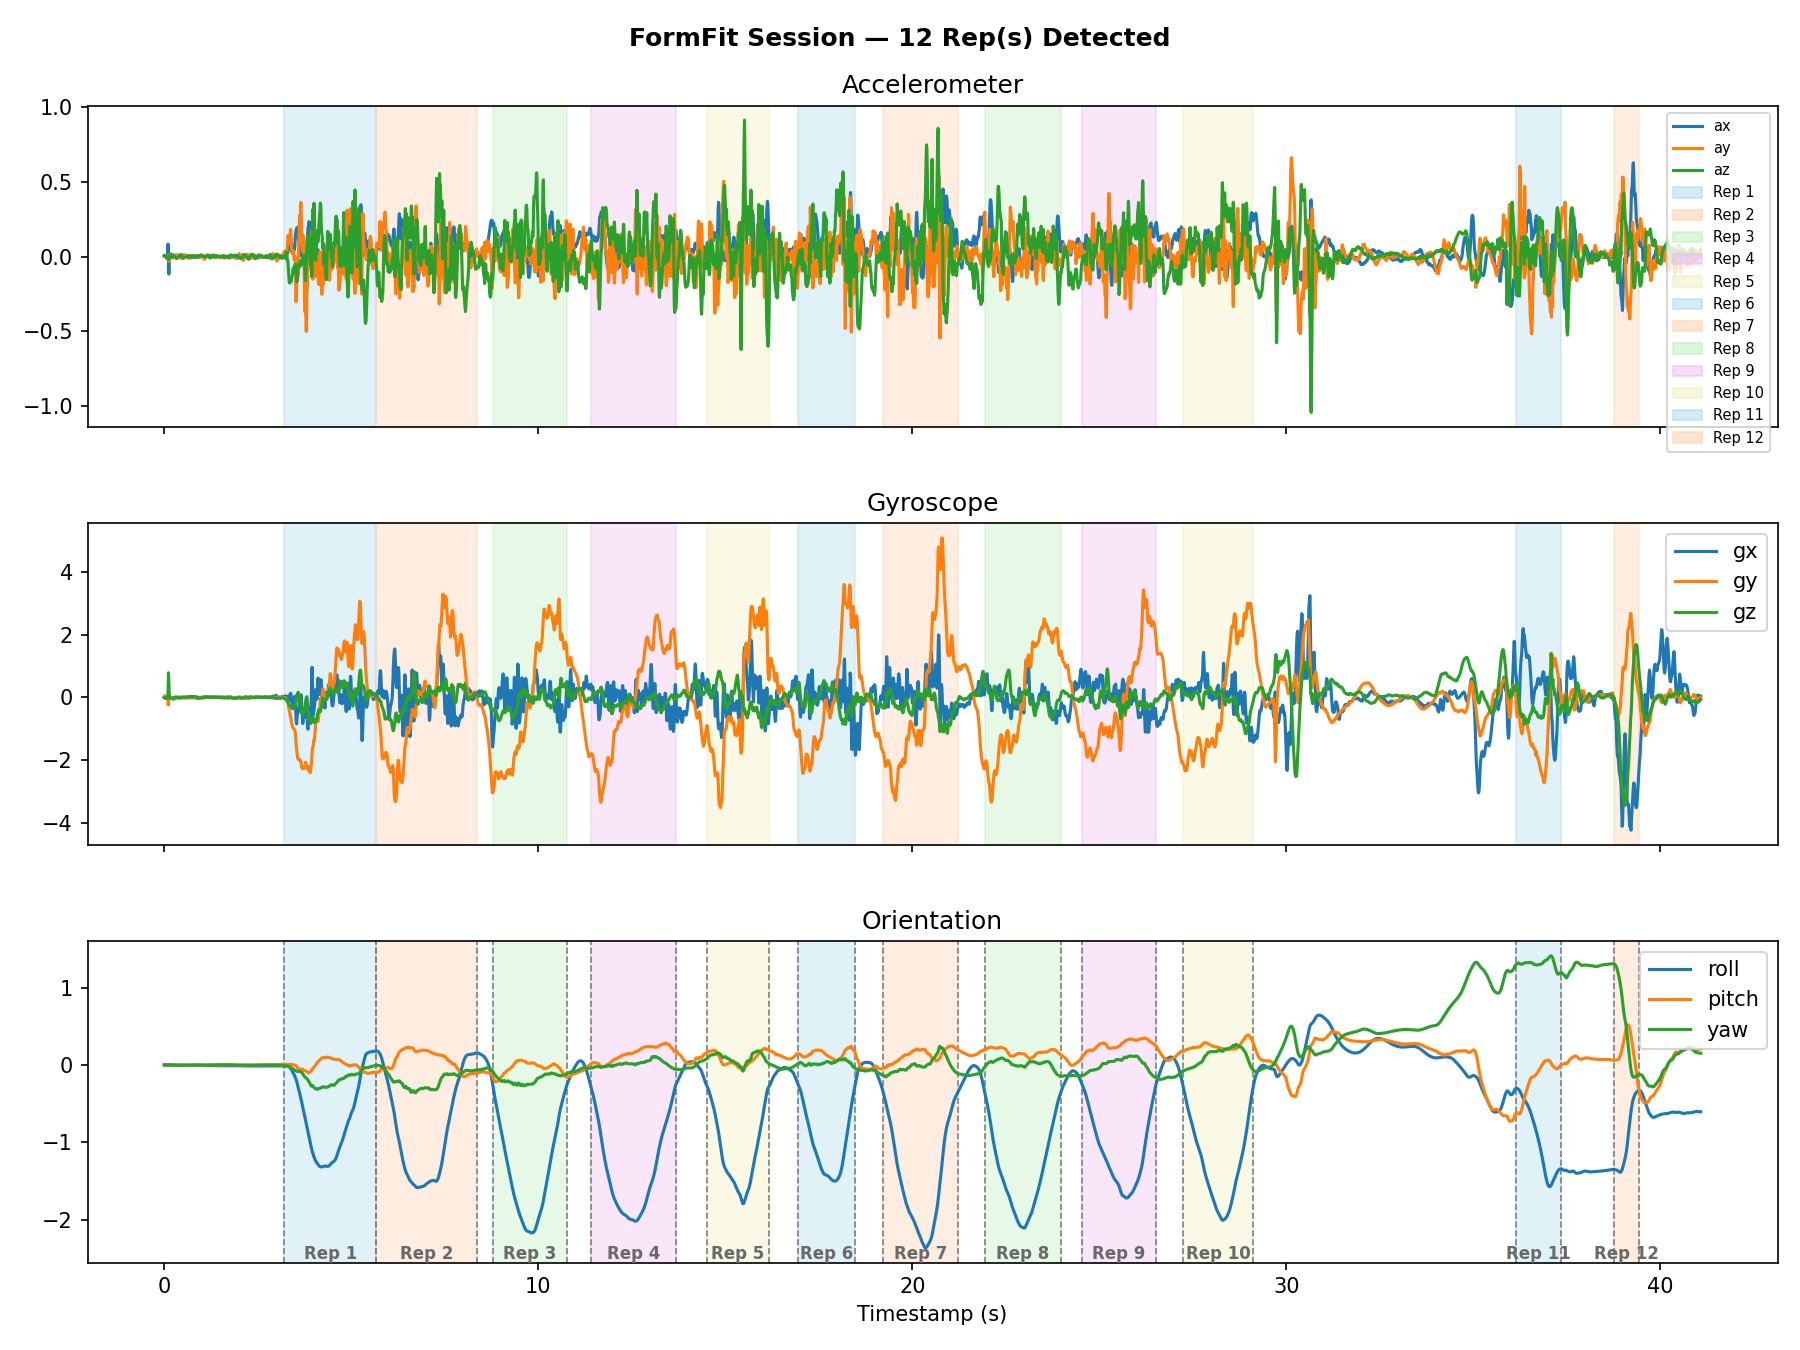
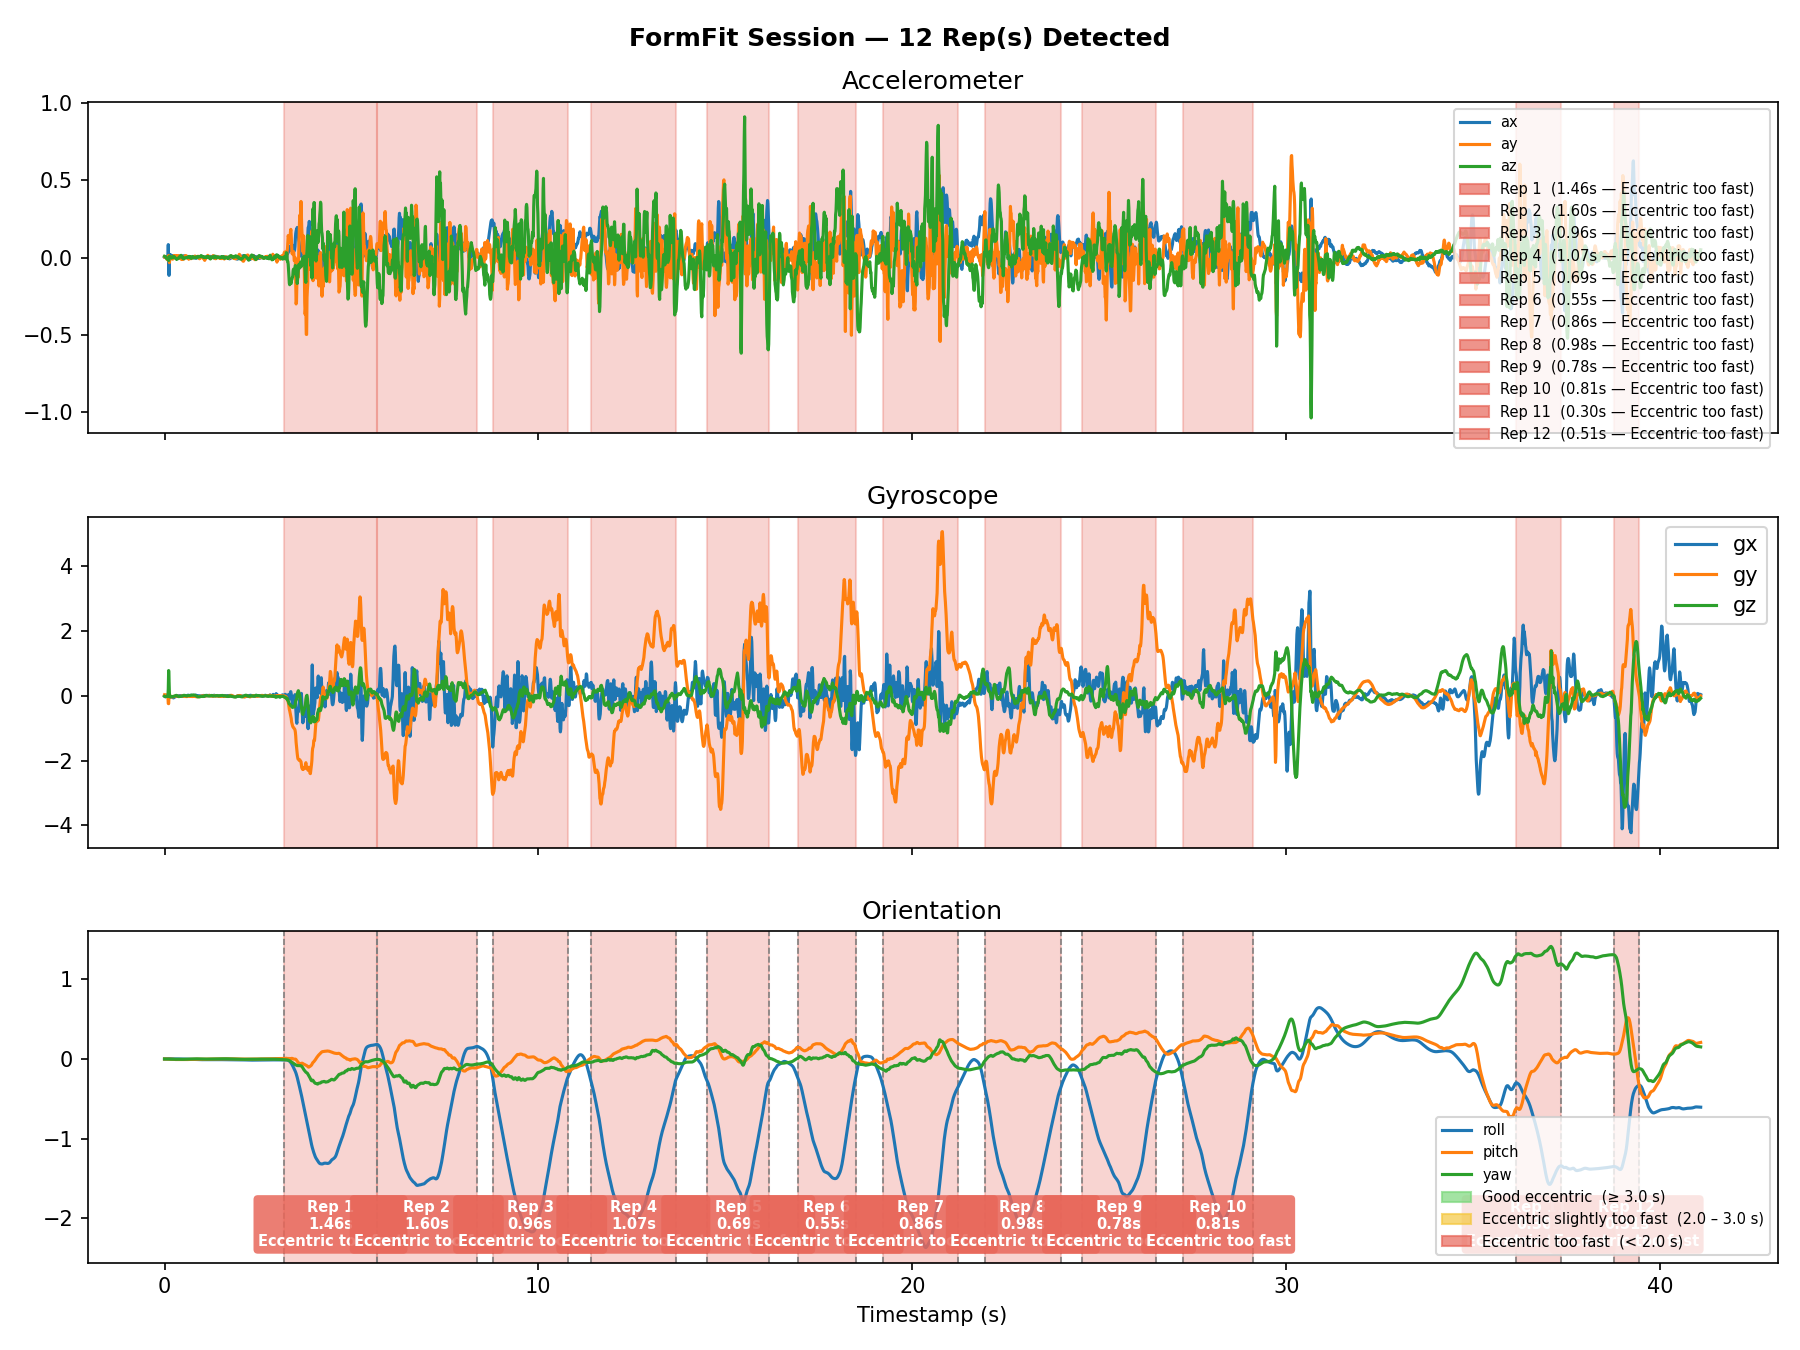
Add eccentric control scoring to rep visualization
For each detected rep, calculate the duration of the eccentric phase
(roll valley → end of rep, i.e. the controlled return to neutral) and
classify it into three tiers:
  - Good eccentric        (≥ 3.0 s)  → green shading
  - Slightly too fast     (2.0–3.0 s) → yellow shading
  - Eccentric too fast    (< 2.0 s)   → red shading

Rep shading across all three subplots is now colour-coded by eccentric
quality instead of arbitrary palette colours. Each rep region in the
orientation subplot gets an annotation badge showing the rep number,
eccentric duration, and verdict. A colour key is added to the bottom
subplot legend and per-rep breakdowns appear in the top subplot legend.

diff --git a/Data Visualization/plot_data.py b/Data Visualization/plot_data.py
@@ -269,8 +269,42 @@ for i, r in enumerate(reps):
     # Use ASCII arrow for compatibility with Windows console encoding
     print(f"  Rep {i+1}: t {t_start:.3f} -> {t_end:.3f}  ({len(r.samples)} samples)")
 
-# Palette for rep shading (cycles if more reps than colours)
-REP_COLORS = ["#a8d8ea", "#fecea8", "#b8f0b8", "#f0b8f0", "#f0f0b8"]
+# ---------------------------------------------------------------------------
+# Eccentric scoring
+# ---------------------------------------------------------------------------
+
+ECCENTRIC_COLORS = {
+    "good":         "#7dd87d",   # green
+    "slightly_fast": "#f5c842",  # yellow
+    "too_fast":     "#e8675a",   # red
+}
+
+ECCENTRIC_LABELS = {
+    "good":         "Good eccentric",
+    "slightly_fast": "Eccentric slightly too fast",
+    "too_fast":     "Eccentric too fast",
+}
+
+
+def _eccentric_time(rep: Repetition) -> float:
+    """Return the duration (seconds) of the eccentric (return) phase.
+
+    For an external shoulder rotation the user starts at neutral, rotates
+    outward first (concentric: peak → valley in roll), then returns to neutral
+    (eccentric: valley → peak in roll).  The eccentric phase therefore runs
+    from the roll minimum to the end of the rep.
+    """
+    rolls = [s.roll for s in rep.samples]
+    valley_idx = rolls.index(min(rolls))
+    return rep.samples[-1].t - rep.samples[valley_idx].t
+
+
+def _eccentric_score(duration: float) -> str:
+    if duration >= 3.0:
+        return "good"
+    if duration >= 2.0:
+        return "slightly_fast"
+    return "too_fast"
 
 # ---------------------------------------------------------------------------
 # Plot
@@ -300,37 +334,71 @@ axs[2].set_title("Orientation")
 axs[2].legend(handles=[l for l in axs[2].get_lines() if not l.get_label().startswith("_")], loc="upper right")
 axs[2].set_xlabel("Timestamp (s)")
 
-# Shade rep regions across all subplots and add rep labels on bottom plot
+# ---------------------------------------------------------------------------
+# Shade rep regions and annotate with eccentric scores
+# ---------------------------------------------------------------------------
+
+# Legend patches for the top subplot (sensor lines + eccentric quality key)
 legend_patches = []
+
 for i, rep in enumerate(reps):
-    color = REP_COLORS[i % len(REP_COLORS)]
-    t0 = rep.samples[0].t
-    t1 = rep.samples[-1].t
-    label = f"Rep {i + 1}"
+    ecc_dur   = _eccentric_time(rep)
+    score_key = _eccentric_score(ecc_dur)
+    color     = ECCENTRIC_COLORS[score_key]
 
+    t0  = rep.samples[0].t
+    t1  = rep.samples[-1].t
+    mid = (t0 + t1) / 2
+
+    # Shade all three subplots with the score colour
     for ax in axs:
-        ax.axvspan(t0, t1, color=color, alpha=0.35, zorder=0)
+        ax.axvspan(t0, t1, color=color, alpha=0.28, zorder=0)
 
-    # Vertical boundary lines on orientation subplot
+    # Dashed boundary lines on the orientation subplot
     axs[2].axvline(t0, color="gray", linewidth=0.8, linestyle="--", zorder=1)
     axs[2].axvline(t1, color="gray", linewidth=0.8, linestyle="--", zorder=1)
 
-    # Rep number annotation centred in the shaded region
-    mid = (t0 + t1) / 2
-    y_pos = axs[2].get_ylim()[1] if axs[2].get_ylim()[1] != 1.0 else 0.9
+    # Annotation box: rep number + eccentric time + verdict
+    y_min, y_max = axs[2].get_ylim()
+    annotation_y = y_min + (y_max - y_min) * 0.04   # just above the bottom edge
+
     axs[2].text(
-        mid, axs[2].get_ylim()[0],
-        label,
+        mid, annotation_y,
+        f"Rep {i + 1}\n{ecc_dur:.2f}s\n{ECCENTRIC_LABELS[score_key]}",
         ha="center", va="bottom",
-        fontsize=8, fontweight="bold", color="dimgray",
+        fontsize=7, fontweight="bold",
+        color="white",
+        bbox=dict(
+            boxstyle="round,pad=0.3",
+            facecolor=color,
+            edgecolor="none",
+            alpha=0.85,
+        ),
+        zorder=3,
     )
 
-    legend_patches.append(mpatches.Patch(color=color, alpha=0.5, label=label))
+    legend_patches.append(
+        mpatches.Patch(color=color, alpha=0.7, label=f"Rep {i + 1}  ({ecc_dur:.2f}s — {ECCENTRIC_LABELS[score_key]})")
+    )
 
-# Rep colour legend on the top subplot
+# Eccentric quality colour key (shown once, below sensor lines)
+quality_legend = [
+    mpatches.Patch(color=ECCENTRIC_COLORS["good"],          alpha=0.7, label="Good eccentric  (≥ 3.0 s)"),
+    mpatches.Patch(color=ECCENTRIC_COLORS["slightly_fast"], alpha=0.7, label="Eccentric slightly too fast  (2.0 – 3.0 s)"),
+    mpatches.Patch(color=ECCENTRIC_COLORS["too_fast"],      alpha=0.7, label="Eccentric too fast  (< 2.0 s)"),
+]
+
+# Top subplot: sensor lines + per-rep legend
 axs[0].legend(
     handles=axs[0].get_lines() + legend_patches,
     loc="upper right",
+    fontsize=7,
+)
+
+# Bottom subplot: quality colour key
+axs[2].legend(
+    handles=[l for l in axs[2].get_lines() if not l.get_label().startswith("_")] + quality_legend,
+    loc="lower right",
     fontsize=7,
 )
 
